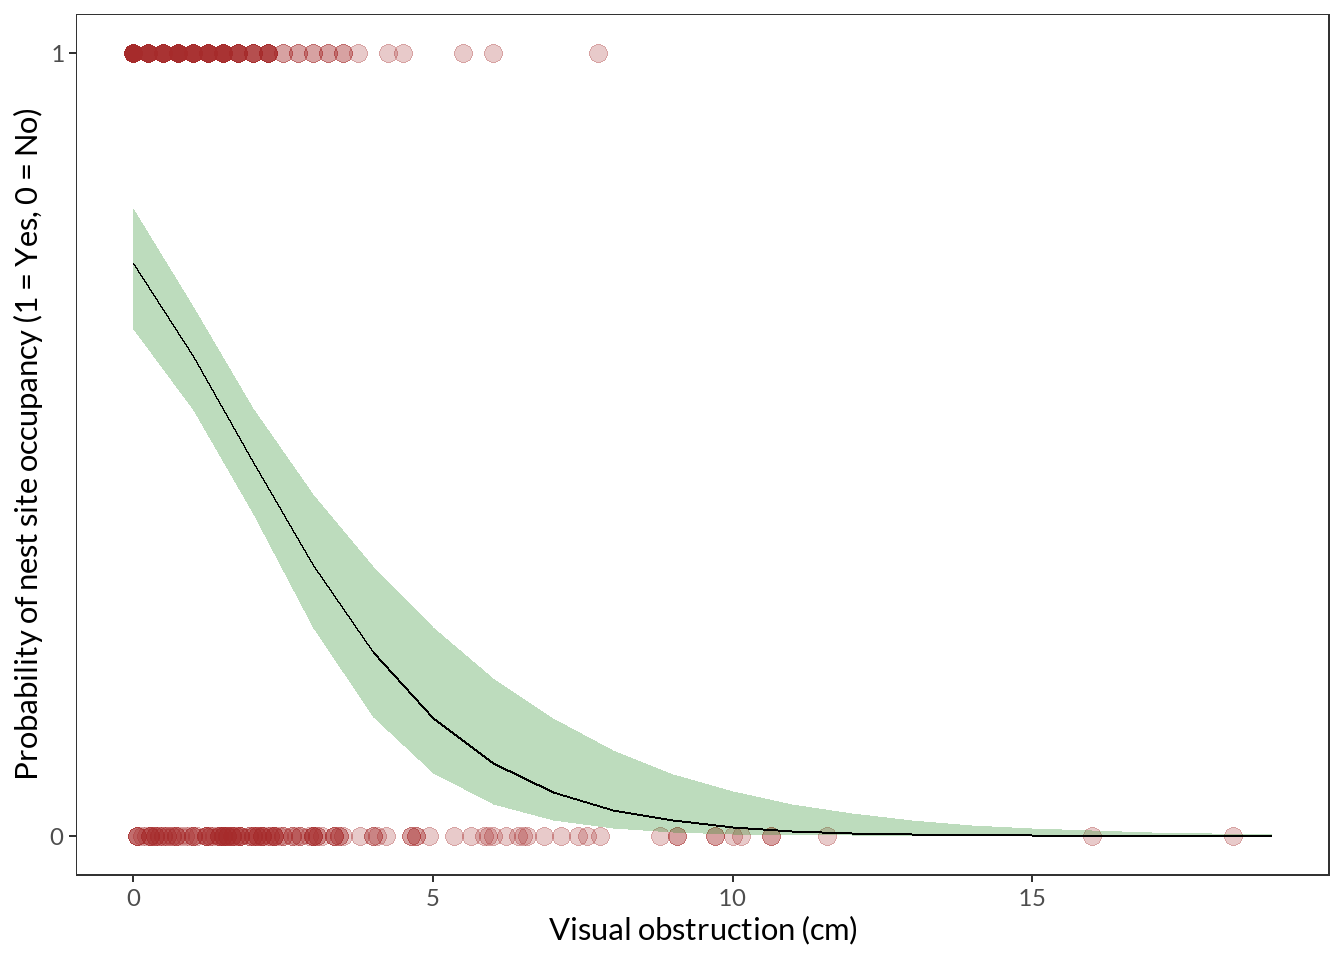
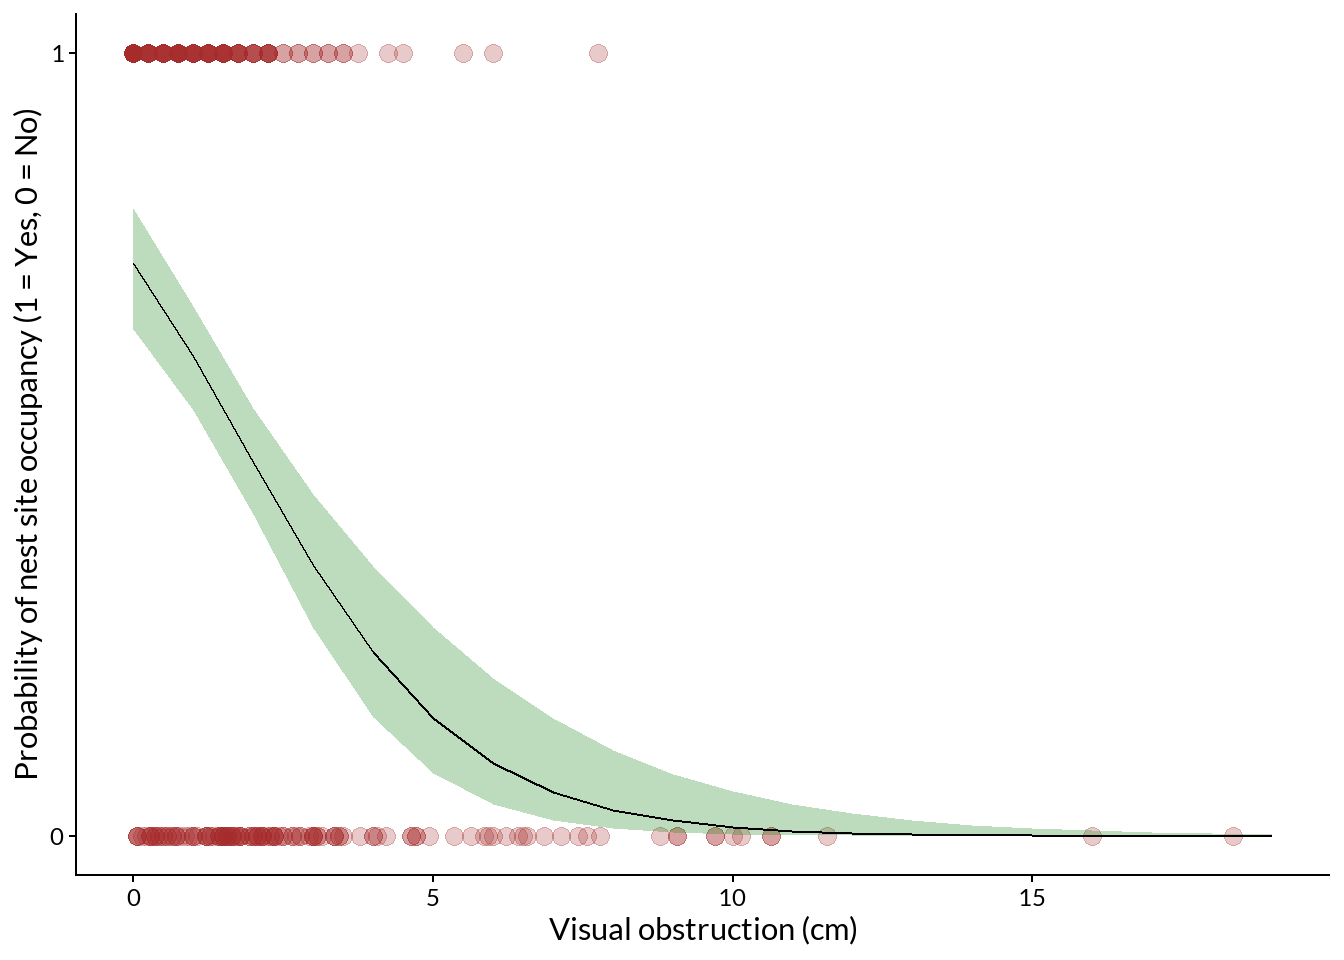
edit plot in 3g

diff --git a/code/ENVS-193DS_Winter-2026_final.html b/code/ENVS-193DS_Winter-2026_final.html
@@ -266,11 +266,11 @@ window.Quarto = {
 <pre><code># A tibble: 5 × 3
   site_name    year mean_fronds
   &lt;fct&gt;       &lt;dbl&gt;       &lt;dbl&gt;
-1 Naples       2020        7.41
-2 Naples       2009        5.44
-3 Naples       2018       17.7 
-4 Isla Vista   2008       39.4 
-5 Carpinteria  2004        3.67</code></pre>
+1 Isla Vista   2017       25.0 
+2 Naples       2002        3.01
+3 Carpinteria  2020        3.56
+4 Naples       2017        4.74
+5 Naples       2014        8.76</code></pre>
 </div>
 <div class="code-copy-outer-scaffold"><div class="sourceCode cell-code" id="cb4"><pre class="sourceCode r code-with-copy"><code class="sourceCode r"><span id="cb4-1"><a href="#cb4-1" aria-hidden="true" tabindex="-1"></a><span class="fu">str</span>(kelp_clean) <span class="co"># view the structure of dataset</span></span></code></pre></div><button title="Copy to Clipboard" class="code-copy-button"><i class="bi"></i></button></div>
 <div class="cell-output cell-output-stdout">
@@ -464,7 +464,7 @@ Models ranked by AIC(x) </code></pre>
 <span id="cb12-21"><a href="#cb12-21" aria-hidden="true" tabindex="-1"></a>                     <span class="at">breaks =</span> <span class="fu">c</span>(<span class="dv">0</span>,<span class="dv">1</span>)) <span class="sc">+</span></span>
 <span id="cb12-22"><a href="#cb12-22" aria-hidden="true" tabindex="-1"></a>  <span class="fu">labs</span>(<span class="at">x =</span> <span class="st">"Visual obstruction (cm)"</span>, <span class="co"># add axis labels</span></span>
 <span id="cb12-23"><a href="#cb12-23" aria-hidden="true" tabindex="-1"></a>       <span class="at">y =</span> <span class="st">"Probability of nest site occupancy (1 = Yes, 0 = No)"</span>) <span class="sc">+</span></span>
-<span id="cb12-24"><a href="#cb12-24" aria-hidden="true" tabindex="-1"></a>  <span class="fu">theme_bw</span>(<span class="at">base_family =</span> <span class="st">"lato"</span>) <span class="sc">+</span> <span class="co"># change theme, change to custom font</span></span>
+<span id="cb12-24"><a href="#cb12-24" aria-hidden="true" tabindex="-1"></a>  <span class="fu">theme_classic</span>(<span class="at">base_family =</span> <span class="st">"lato"</span>) <span class="sc">+</span> <span class="co"># change theme, change to custom font</span></span>
 <span id="cb12-25"><a href="#cb12-25" aria-hidden="true" tabindex="-1"></a>  <span class="fu">theme</span>(<span class="at">panel.grid =</span> <span class="fu">element_blank</span>()) <span class="co"># remove gridlines</span></span></code></pre></div><button title="Copy to Clipboard" class="code-copy-button"><i class="bi"></i></button></div>
 <div class="cell-output-display">
 <div>
